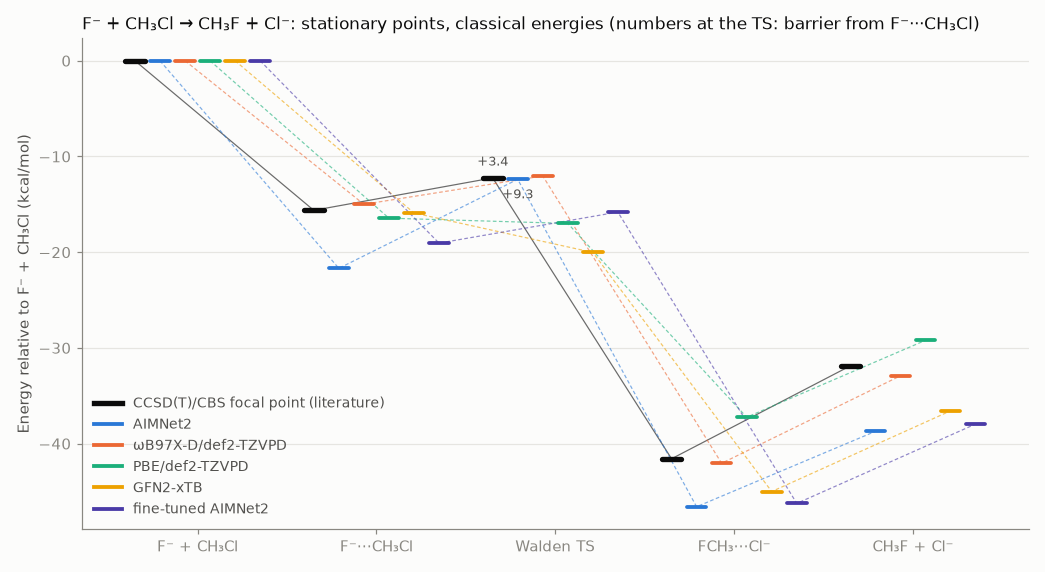
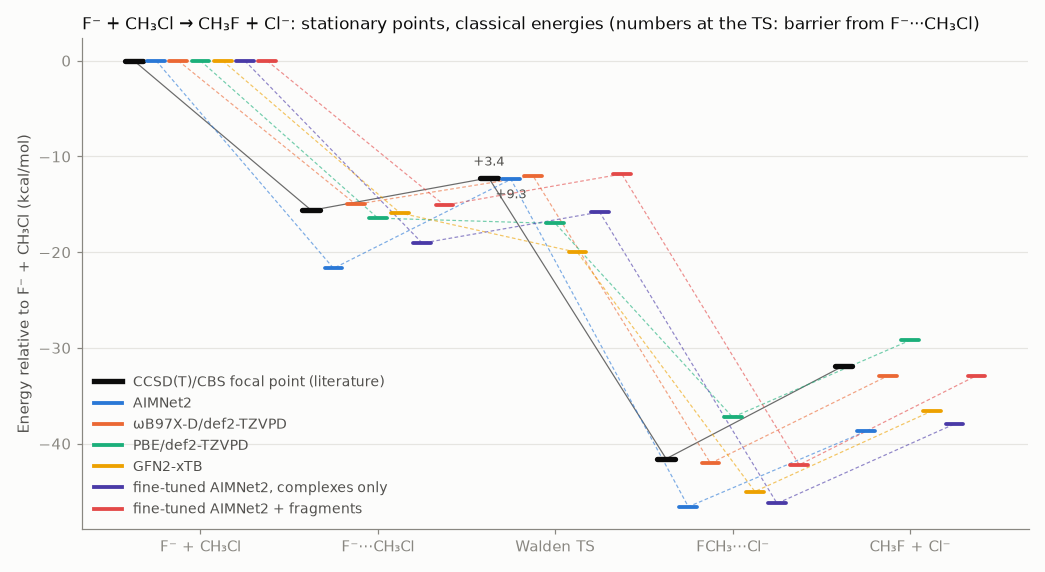
SN2 example: document the AIMNet2 fine-tune with fragment data
Adding 17 wB97X-D calculations of the free fragments and pulled-apart complexes fixed what the complex-only fine-tune left wrong: relative to separated F- + CH3Cl the retrained AIMNet2 gives -15.1 / -11.8 / -42.2 / -32.9 kcal/mol (complex, TS, product complex, products) against wB97X-D -15.0 / -12.0 / -42.1 / -32.9 and CCSD(T) -15.6 / -12.2 / -41.6 / -31.9, with barrier 3.26 kcal/mol, 1.5 meV on its own IRC, 32 meV on the scan frames (best of the three fine-tunes), and exact neutral bond lengths. README: new section with the asymptote table, a column in the summary table, conclusions and learning-curve caption updated, its IRC and scan plots; both energy diagrams now show it next to the complex-only fine-tune.

diff --git a/examples/sn2_f_ch3cl/energy_levels.py b/examples/sn2_f_ch3cl/energy_levels.py
@@ -59,13 +59,20 @@ def draw_levels(ax, series, points, width, slot):
         ax.spines[spine].set_color(MUTED)
 
 
-TUNED_AIMNET2 = ("fine-tuned AIMNet2", "#4a3aa7")  # categorical slot 7
+TUNED_AIMNET2 = ("fine-tuned AIMNet2, complexes only", "#4a3aa7")  # categorical slot 7
+TUNED_AIMNET2_FRAGMENTS = ("fine-tuned AIMNet2 + fragments", "#e34948")  # slot 8
 
 
-def tuned_aimnet2():
-    """The fine-tuned AIMNet2's evaluation (``evaluate_aimnet2_tuned.py``), if run."""
-    path = WORK / "finetune_aimnet2" / "evaluation.json"
+def tuned_aimnet2(suffix=""):
+    """A fine-tuned AIMNet2's evaluation (``evaluate_aimnet2_tuned.py``), if run."""
+    path = WORK / "finetune_aimnet2" / f"evaluation{suffix}.json"
     return json.loads(path.read_text()) if path.exists() else None
+
+
+def aimnet2_runs():
+    return [(style, evaluation) for style, evaluation in
+            ((TUNED_AIMNET2, tuned_aimnet2()),
+             (TUNED_AIMNET2_FRAGMENTS, tuned_aimnet2("_fragments"))) if evaluation]
 
 
 def main():
@@ -73,12 +80,12 @@ def main():
     figure, ax = plt.subplots(figsize=(9.5, 5.2), facecolor=SURFACE)
     ax.set_facecolor(SURFACE)
     series = [(label, color, {"reactants": 0.0, **data[key]}) for key, label, color in SERIES]
-    evaluation = tuned_aimnet2()
-    if evaluation and "asymptotes" in evaluation:
-        # The only fine-tuned model with a charge input, so the only one that has
-        # energies relative to the separated fragments.
-        series.append((*TUNED_AIMNET2, {"reactants": 0.0, **evaluation["asymptotes"]}))
-    width, slot = (0.13, 0.165) if len(series) <= 5 else (0.11, 0.14)
+    # The fine-tuned AIMNet2s keep the charge input, so they alone among the
+    # fine-tunes have energies relative to the separated fragments.
+    for style, evaluation in aimnet2_runs():
+        if "asymptotes" in evaluation:
+            series.append((*style, {"reactants": 0.0, **evaluation["asymptotes"]}))
+    width, slot = (0.13, 0.165) if len(series) <= 5 else (0.10, 0.125)
     draw_levels(ax, series, POINTS, width, slot)
     # The quantity that matters most: the barrier from the ion–dipole complex.
     # Neighbouring levels crowd the TS: the literature label goes above its
@@ -128,10 +135,10 @@ def from_complex(data):
     if stock.get("walden_ts_found"):
         series.append(("MACE-MP-0 small", "#008300",
                        levels(stock["barrier_kcal"], stock["complex_to_complex_kcal"])))
-    evaluation = tuned_aimnet2()
-    if evaluation and "ts" in evaluation:
-        series.append((*TUNED_AIMNET2, levels(evaluation["ts"]["barrier_kcal"],
-                                              evaluation["ts"]["complex_to_complex_kcal"])))
+    for style, evaluation in aimnet2_runs():
+        if "ts" in evaluation:
+            series.append((*style, levels(evaluation["ts"]["barrier_kcal"],
+                                          evaluation["ts"]["complex_to_complex_kcal"])))
     series = [(f"{label}: barrier {values['ts']:.1f}", color, values)
               for label, color, values in series]
     points = [("reactant_complex", "F⁻···CH₃Cl"), ("ts", "Walden TS"),

diff --git a/examples/sn2_f_ch3cl/README.md b/examples/sn2_f_ch3cl/README.md
@@ -42,26 +42,32 @@ general accuracy. The fine-tuned AIMNet2 is the better model: it trained in
 committee), and it forgets far less. Its neutral CH₃F, CH₃Cl and CH₂F₂ keep
 their ωB97X-D bond lengths within 0.01 Å, where the tuned MACE stretched C–Cl
 in CH₃Cl to the length it saw in the complex and cannot evaluate a free ion at
-all. Keeping the charge input also exposes what neither fine-tune fixed: the
-training data are all complexes, so relative to the separated F⁻ + CH₃Cl the
-complexes are still 3.5–4.6 kcal/mol too deep and the reaction 6 kcal/mol too
-exothermic, and the TS is now 3.6 kcal/mol too low. A model for the whole
-reaction needs the free fragments in its data too. And none of it works
-without checking the reference level against the literature first:
-fine-tuning to PBE would have produced a confident model of a reaction with no
-barrier.
+all. Keeping the charge input also exposed what training on complexes alone
+cannot fix: relative to the separated F⁻ + CH₃Cl, the first AIMNet2 fine-tune
+left the complexes 3.5–4.6 kcal/mol too deep, the reaction 6 kcal/mol too
+exothermic, and the TS 3.6 kcal/mol too low. Adding 17 ωB97X-D calculations of
+the free fragments and of the complexes pulled apart (47 s of DFT, 7 minutes
+of training) fixed that. The retrained AIMNet2 reproduces ωB97X-D at every
+stationary point relative to the separated reactants, within 1 kcal/mol of the
+literature, and lost nothing on the path, off it, or on the neutral molecules.
+Free fragments and long-range ion–molecule configurations are the part of such
+a reaction that an MLIP does not get from the complexes; they have to be in
+the data. And none of it works without checking the reference level against
+the literature first: fine-tuning to PBE would have produced a confident model
+of a reaction with no barrier.
 
-| | AIMNet2 | Fine-tuned AIMNet2 | Fine-tuned MACE | Reference |
-|---|---|---|---|---|
-| Barrier from F⁻···CH₃Cl (kcal/mol) | 9.3 | **3.24** | **3.31** | 3.39 (CCSD(T)) |
-| Walden TS relative to F⁻ + CH₃Cl (kcal/mol) | −12.4 | −15.8 | cannot (no charge input) | −12.2 (CCSD(T)) |
-| Reaction energy, CH₃F + Cl⁻ (kcal/mol) | −38.7 | −38.0 | cannot | −31.9 (CCSD(T)) |
-| F⁻···CH₃Cl r(C–F) / r(C–Cl) (Å) | 2.454 / 1.878 | **2.497 / 1.852** | 2.516 / 1.851 | 2.498 / 1.843 (CCSD(T)) |
-| TS imaginary mode (cm⁻¹) | −743 | −446 | −445 | −450 (ωB97X-D) |
-| Max energy error on its own IRC | 0.28 eV | **0.9 meV** | 2 meV | vs ωB97X-D |
-| Max energy error on the C–F scan frames (off the path) | — | 47 meV | 44 meV | vs ωB97X-D |
-| CH₃Cl r(C–Cl), neutral, never trained on (Å) | 1.793 | **1.779** | 1.840 | 1.781 (ωB97X-D) |
-| Training cost | — | 5 min CPU, one model | 10 min GPU, three models | — |
+| | AIMNet2 | Fine-tuned AIMNet2, complexes only | Fine-tuned AIMNet2 + fragments | Fine-tuned MACE | Reference |
+|---|---|---|---|---|---|
+| Barrier from F⁻···CH₃Cl (kcal/mol) | 9.3 | 3.24 | **3.26** | 3.31 | 3.39 (CCSD(T)) |
+| F⁻···CH₃Cl relative to F⁻ + CH₃Cl (kcal/mol) | −21.7 | −19.1 | **−15.1** | cannot (no charge input) | −15.6 (CCSD(T)) |
+| Walden TS relative to F⁻ + CH₃Cl (kcal/mol) | −12.4 | −15.8 | **−11.8** | cannot | −12.2 (CCSD(T)) |
+| Reaction energy, CH₃F + Cl⁻ (kcal/mol) | −38.7 | −38.0 | **−32.9** | cannot | −31.9 (CCSD(T)) |
+| F⁻···CH₃Cl r(C–F) / r(C–Cl) (Å) | 2.454 / 1.878 | 2.497 / 1.852 | 2.517 / 1.850 | 2.516 / 1.851 | 2.498 / 1.843 (CCSD(T)) |
+| TS imaginary mode (cm⁻¹) | −743 | −446 | −448 | −445 | −450 (ωB97X-D) |
+| Max energy error on its own IRC | 0.28 eV | 0.9 meV | 1.5 meV | 2 meV | vs ωB97X-D |
+| Max energy error on the C–F scan frames (off the path) | — | 47 meV | **32 meV** | 44 meV | vs ωB97X-D |
+| CH₃Cl r(C–Cl), neutral (Å) | 1.793 | 1.779 | **1.781** | 1.840 | 1.781 (ωB97X-D) |
+| Training cost | — | 5 min CPU | 7 min CPU (+47 s DFT) | 10 min GPU, three models | — |
 
 *AIMNet2 and the fine-tunes at their own stationary points. The IRC errors are
 on each model's own path (for AIMNet2, its original IRC).*
@@ -352,9 +358,11 @@ random weights.
 
 ![Learning curve of the AIMNet2 fine-tune](images/aimnet2_finetune_learning_curve.png)
 
-*Validation errors: energy 28 → 1.0 meV, forces 174 → 11 meV/Å. The first Adam
-step overshoots, and there is one transient spike near epoch 660; the best
-epoch was the last, so longer training would still gain a little.*
+*Violet, complexes only: validation energy 28 → 1.0 meV, forces 174 → 11 meV/Å;
+the first Adam step overshoots, one transient spike near epoch 660, and the best
+epoch was the last. Red, with the fragment data (below): 81 → 13 meV and
+158 → 26 meV/Å, on a validation set that also holds two pulled-apart complexes;
+it plateaus near 15 meV, so those long-range structures are the hardest part.*
 
 `evaluate_aimnet2_tuned.py` repeats the MACE checks (ωB97X-D from the shared
 cache; only its own IRC needed new DFT, 31 gradients):
@@ -392,7 +400,8 @@ The tuned AIMNet2 stays within 0.01 Å of ωB97X-D and even improves C–Cl, whe
 the tuned MACE stretched it by 0.06 Å. A molecular foundation model starts from
 chemistry like this; MACE-MP-0 starts from crystals.
 
-**But the separated fragments were not fixed.** Because it keeps the charge
+**But training on complexes alone did not fix the separated fragments** (the
+next section does). Because it keeps the charge
 input, the tuned AIMNet2 can be measured against the separated F⁻ + CH₃Cl, at
 its own geometries (kcal/mol):
 
@@ -407,10 +416,43 @@ energies *within* the complex (the barrier, the complex-to-complex energy) but
 not the energy of the complex *relative to the free fragments*: the complexes
 are still 3.5–4.6 kcal/mol too deep, and the TS, right before by a cancellation of
 errors, is now 3.6 kcal/mol too low. The reaction energy (CH₃F + Cl⁻) is still
-6 kcal/mol too exothermic. Fixing that needs the fragments and the long-range
-approach in the data: isolated F⁻, Cl⁻, CH₃Cl, CH₃F, and complexes pulled apart
-to a few ångström. Those are a handful of cheap ωB97X-D calculations, not tried
-here.
+6 kcal/mol too exothermic.
+
+### Adding the free fragments
+
+`fragment_data.py` labels what the first fine-tune lacked: free F⁻ and Cl⁻,
+CH₃Cl and CH₃F at their ωB97X-D minima with two rattled copies each, and the
+two complexes pulled apart along the C–X axis (F⁻ to 3.0–6.5 Å, Cl⁻ to
+3.6–6.5 Å). 17 ωB97X-D calculations, 47 s. `finetune_aimnet2.py --fragments`
+retrains from the original AIMNet2 on all 110 structures (fragments weighted
+3×, per-element energy offsets instead of one shift; 7 minutes), and
+`evaluate_aimnet2_tuned.py --fragments` repeats every check:
+
+| Relative to F⁻ + CH₃Cl (kcal/mol) | F⁻···CH₃Cl | Walden TS | FCH₃···Cl⁻ | CH₃F + Cl⁻ |
+|---|---|---|---|---|
+| CCSD(T)/CBS focal point | −15.6 | −12.2 | −41.6 | −31.9 |
+| ωB97X-D/def2-TZVPD (the target) | −15.0 | −12.0 | −42.1 | −32.9 |
+| AIMNet2 | −21.7 | −12.4 | −46.6 | −38.7 |
+| Fine-tuned AIMNet2, complexes only | −19.1 | −15.8 | −46.2 | −38.0 |
+| **Fine-tuned AIMNet2 + fragments** | **−15.1** | **−11.8** | **−42.2** | **−32.9** |
+
+It now reproduces its target at every point (within 0.2 kcal/mol) and the
+literature within 1 kcal/mol, and it lost nothing elsewhere: barrier
+3.26 kcal/mol, TS mode −448 cm⁻¹, TS at 2.049 / 2.121 Å, 1.5 meV on its own
+IRC, 2.7 meV on the MACE committee's IRC, and the neutral molecules at
+ωB97X-D's bond lengths (CH₃F 1.380, CH₃Cl 1.781, CH₂F₂ 1.354 Å). Off the path
+it is the best of the three fine-tunes: 32 meV on the scan frames, against 44
+(MACE) and 47 meV (complexes only), presumably because the pulled-apart
+structures cover more of the space the scan visits.
+
+![Fine-tuned AIMNet2 + fragments vs ωB97X-D along its own IRC](images/aimnet2_fragments_vs_wb97xd_own_irc_energy.png)
+
+![Fine-tuned AIMNet2 + fragments vs ωB97X-D on the scan frames](images/aimnet2_fragments_vs_wb97xd_scan_energy.png)
+
+The model is `aimnet2_wb97m_d3_0_SN2-F-CH3Cl_wB97XD-def2TZVPD_fragments.pt`
+in `D:\MLIP_Work_Folder\cache\aimnet\finetuned\` (with its model card), loaded
+by the AIMNet2 backend as `aimnet_model`. It is still a specialist for this
+reaction; the neutral molecules above are the only other chemistry checked.
 
 ## Reproduce
 
